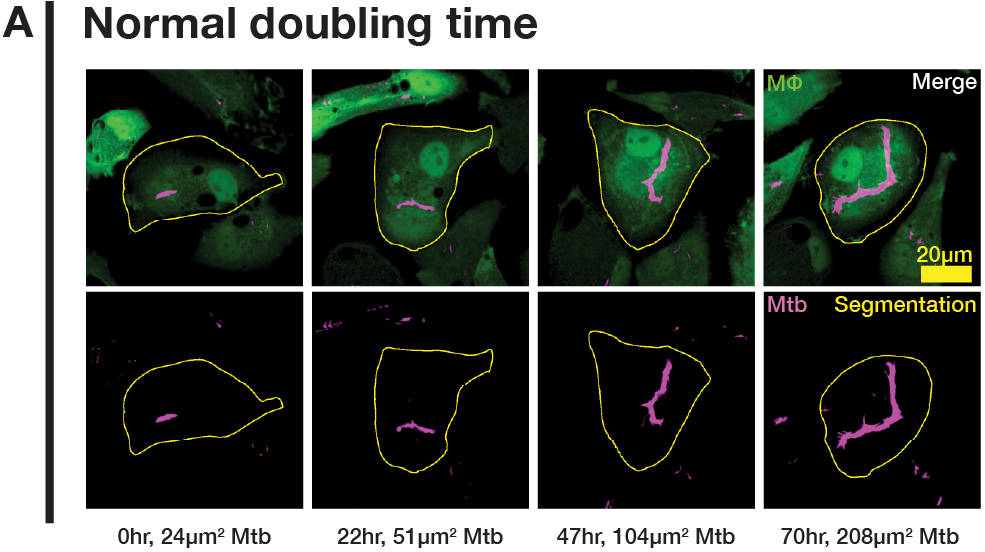
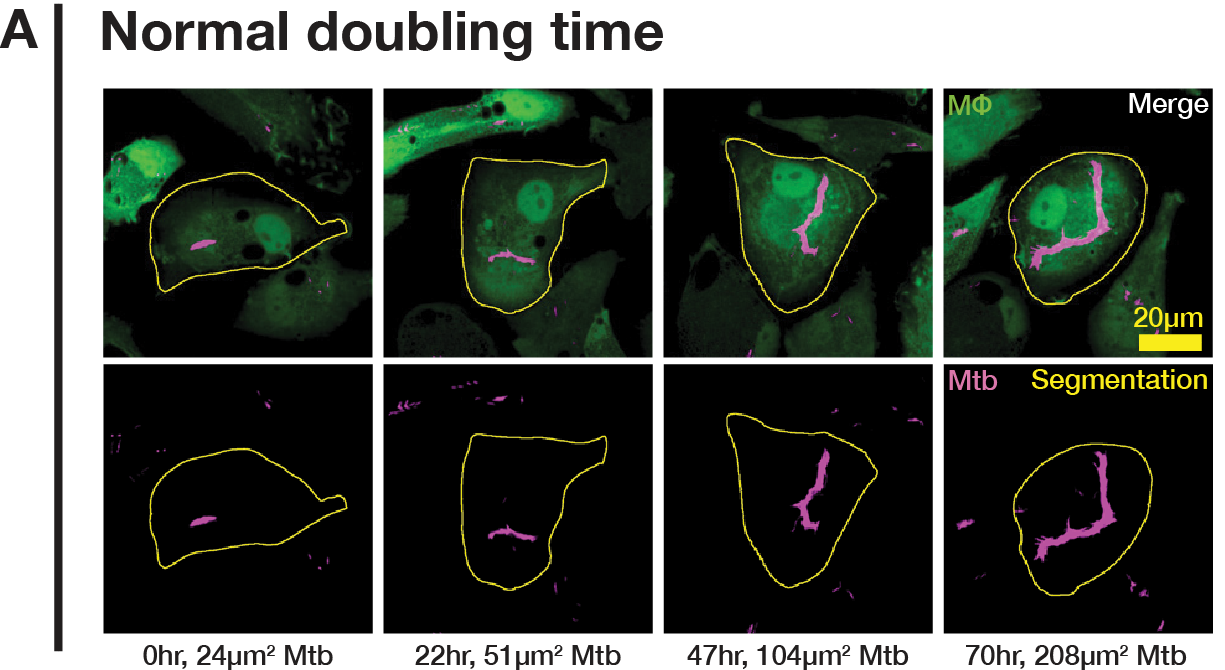
tidied up f2abc

Changed region(s): [[0.0, 0.0, 1.0, 1.0], [0.5787, 0.6159, 0.731, 0.7391], [0.2132, 0.6775, 0.2437, 0.7083]]

diff --git a/docs/js/interactivity.js b/docs/js/interactivity.js
@@ -212,6 +212,14 @@ function setupVideoHoverAndPopup(videoContainers) {
         let hoverDisabled = false;
         let previewWrapper = null;
 
+        // Add escape key handler
+        window.addEventListener('keydown', (e) => {
+            if (e.key === 'Escape' && popup.style.display === 'block') {
+                popup.style.display = 'none';
+                enableHoverPreview();
+            }
+        });
+
         // Add hover preview functionality
         container.addEventListener('mouseenter', (event) => {
             if (hoverDisabled) return;
@@ -302,7 +310,7 @@ function setupVideoHoverAndPopup(videoContainers) {
 }
 
 // ===========================================
-// 5. Load Plotly Data from JSON (Fixed)
+// 5. Load Plotly Data from JSON
 // ===========================================
 function loadPlotlyFigure(plotId, jsonPath) {
     const plotDiv = document.getElementById(plotId);
@@ -340,7 +348,7 @@ function loadPlotlyFigure(plotId, jsonPath) {
 }
 
 // ===========================================
-// 6. Setup Plotly Hover Interaction (Fixed)
+// 6. Setup Plotly Hover Interaction
 // ===========================================
 function setupPlotHover(plotId) {
     const plotDiv = document.getElementById(plotId);
@@ -391,7 +399,7 @@ function setupPlotHover(plotId) {
 }
 
 // ===========================================
-// 7. Initialize All Components (Fixed)
+// 7. Initialize All Components
 // ===========================================
 function initializeFigures() {
     setupImagePopup(document.querySelectorAll('.F1B-container, .F1C-container, .F1F-container'));

diff --git a/docs/css/styles.css b/docs/css/styles.css
@@ -409,6 +409,30 @@ a {
     /* min-width: 300px; */
 }
 
+.video-popup {
+    display: none;
+    justify-content: center;
+    align-items: center;
+    width: 100vw;      /* Full viewport width */
+    height: 100vh;     /* Full viewport height */
+    max-width: 100%;   /* Ensure it doesn't overflow */
+    max-height: 100%;  /* Ensure it doesn't overflow */
+}
+
+.video-popup .video-container {
+    width: 90vw;       /* 90% of viewport width */
+    height: 90vh;      /* 90% of viewport height */
+    max-width: 90%;    /* Fallback for older browsers */
+    max-height: 90%;   /* Fallback for older browsers */
+}
+
+.video-popup .popup-video {
+    width: 100%;       /* Fill the container width */
+    height: 100%;      /* Fill the container height */
+    object-fit: contain; /* Maintain aspect ratio, fit entire video */
+}
+
+
 
 
 /* ### unsure about below */
